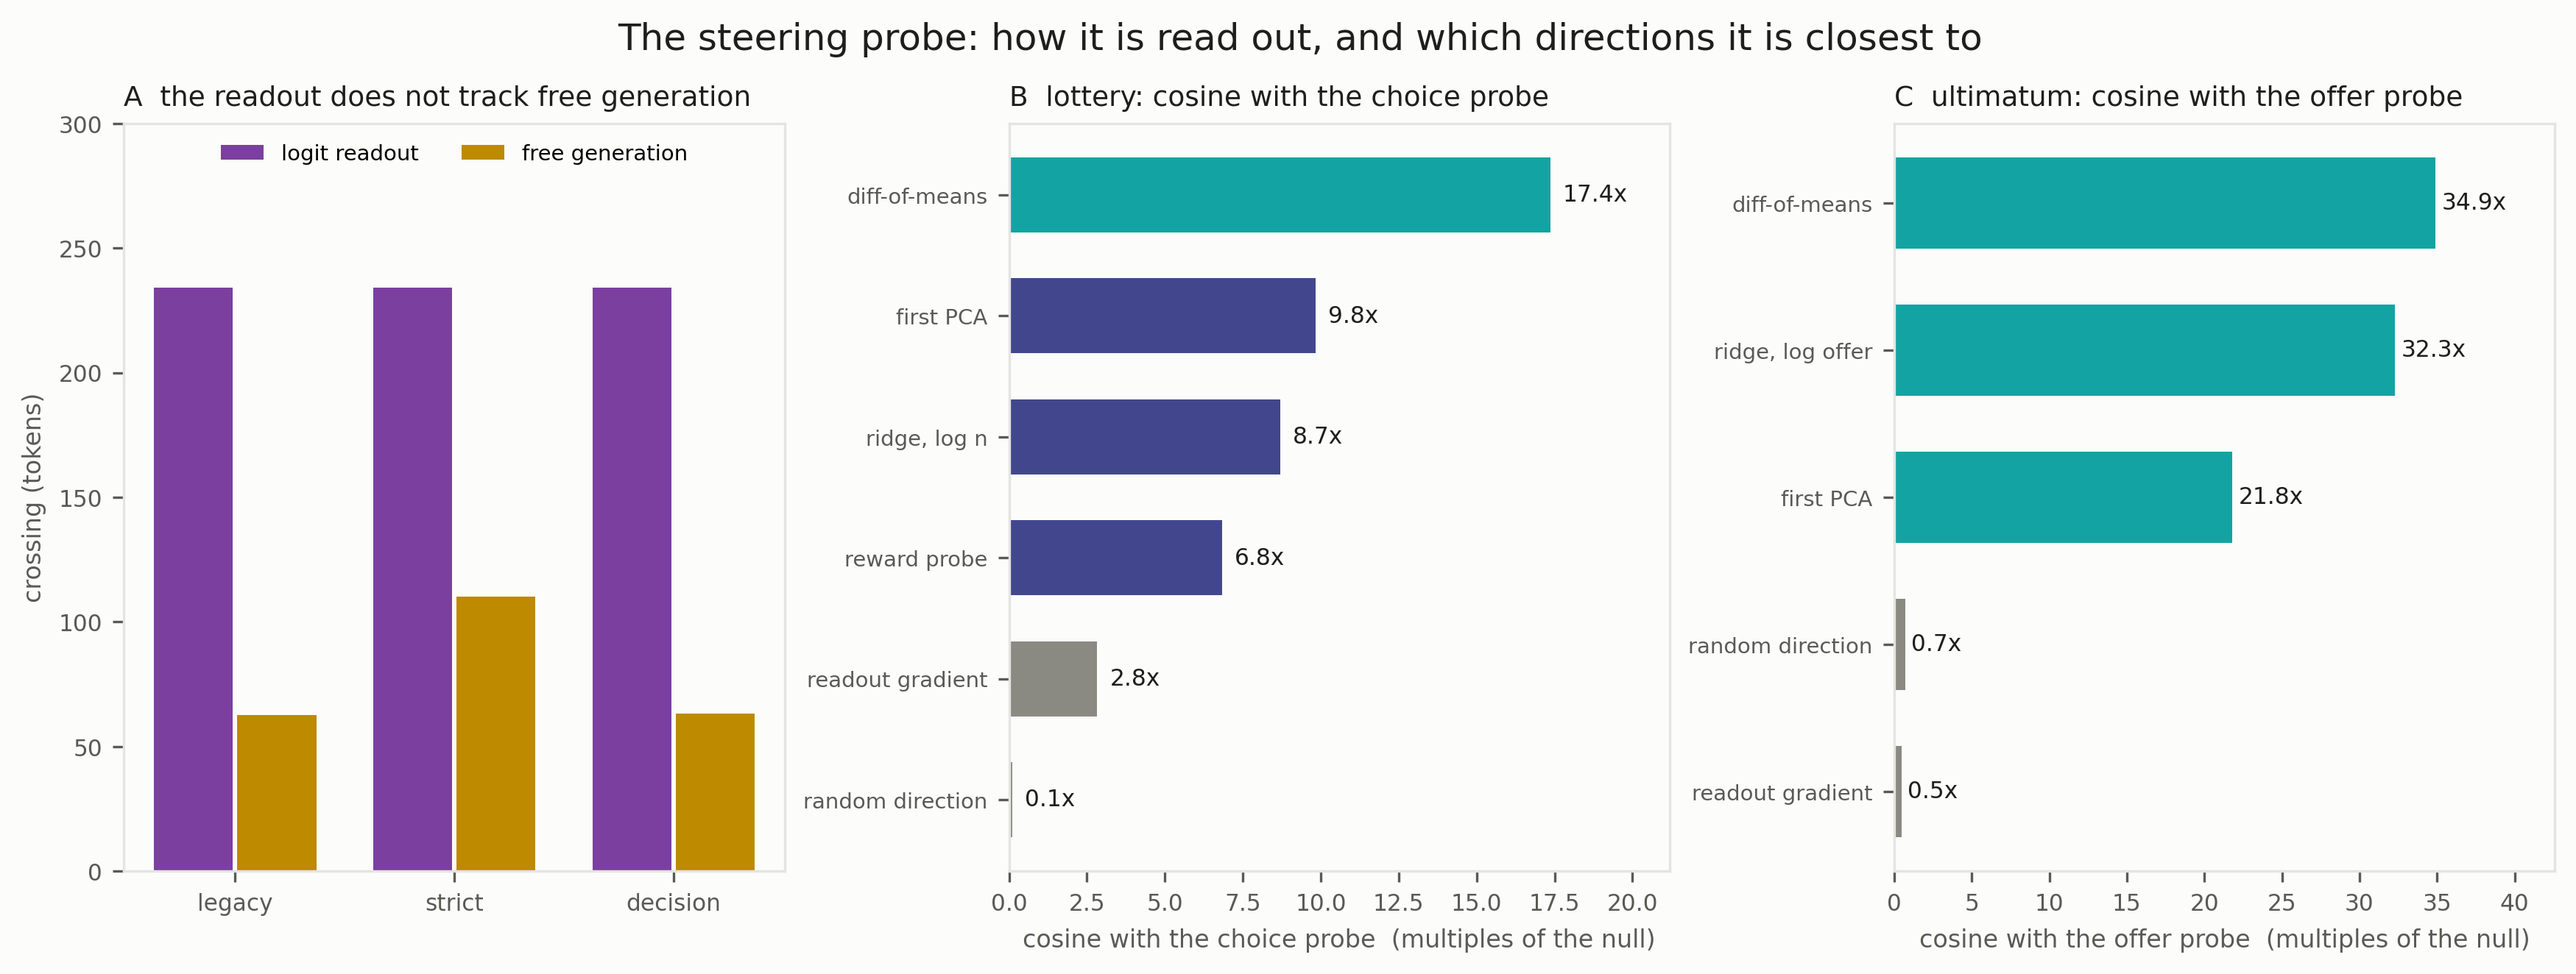
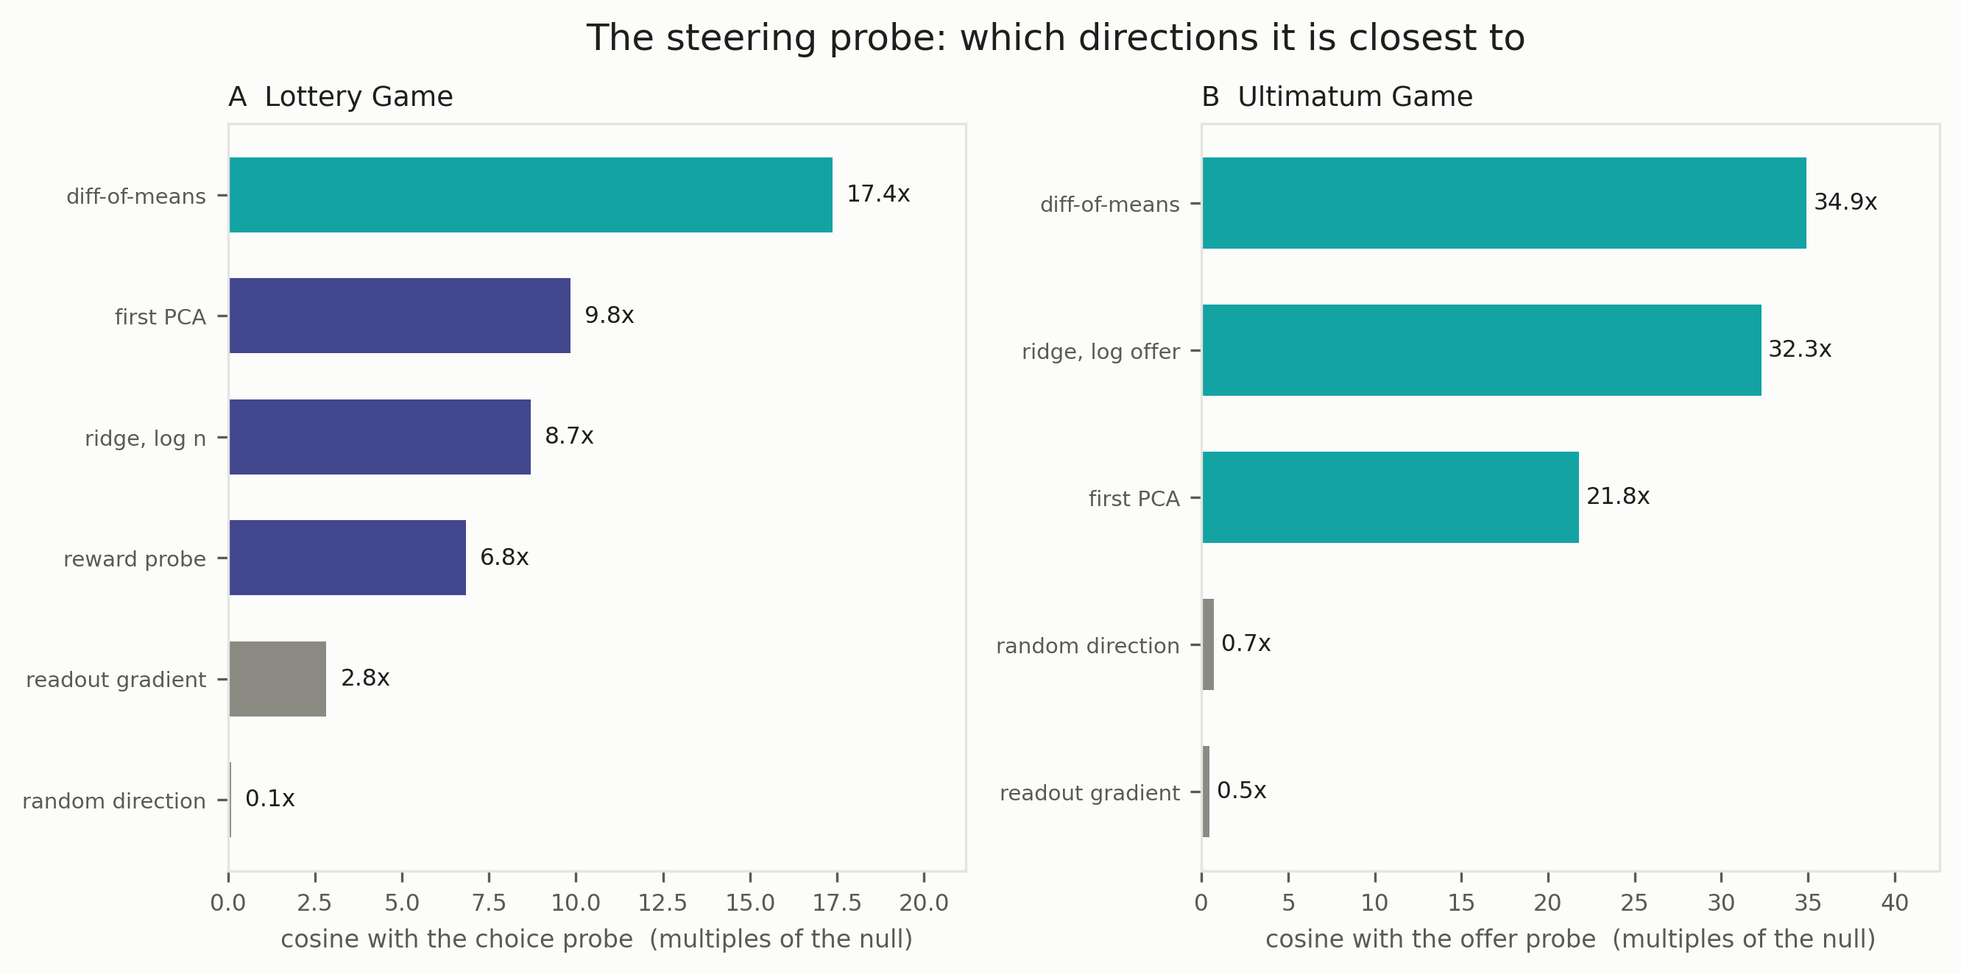
g4_summary: drop the readout panel; two games side by side with game-name titles

diff --git a/cv_bench/g4_figure.py b/cv_bench/g4_figure.py
@@ -2,8 +2,7 @@
 
 Two panels, one per measurement property:
 
-  A  the readout against free generation, the instrument check
-  B  direction geometry at layer 50, cosines as multiples of the 1/sqrt(d) null
+  A  direction geometry at layer 50, cosines as multiples of the 1/sqrt(d) null
 
 Every number is read from results/S/s1/*.csv. Nothing here is typed by hand.
 Palette and conventions from cv_bench/s1_figures.py.
@@ -25,29 +24,6 @@ DATA = Path(__file__).resolve().parents[1] / "results/S/s1"
 
 def rows(name: str) -> List[dict]:
     return list(csv.DictReader(open(DATA / name, newline="")))
-
-
-def panel_d(ax):
-    """Readout crossing against free-generation crossing."""
-    ia = [r for r in rows("instr_agreement.csv")
-          if r["enough"] == "True" and r["template"] == "True"
-          and r["crossing_readout"] and r["crossing_free"]]
-    labels, rd, fr = [], [], []
-    for r in ia:
-        labels.append(r["coding"])
-        rd.append(float(r["crossing_readout"]))
-        fr.append(float(r["crossing_free"]))
-    xs = np.arange(len(labels))
-    ax.bar(xs - 0.19, rd, width=0.36, color=PURPLE, label="logit readout")
-    ax.bar(xs + 0.19, fr, width=0.36, color=GOLD, label="free generation")
-    ax.set_xticks(xs)
-    ax.set_xticklabels(labels, fontsize=7.5)
-    ax.set_ylabel("crossing (tokens)", color=INK2, fontsize=8)
-    ax.set_title("A  the readout does not track free generation",
-                 color=INK, fontsize=9, loc="left")
-    ax.set_ylim(0, 300)
-    ax.legend(frameon=False, fontsize=7, loc="upper center", ncol=2,
-              bbox_to_anchor=(0.5, 0.99), borderaxespad=0.2)
 
 
 def panel_e(ax):
@@ -79,8 +55,7 @@ def panel_e(ax):
     ax.set_yticklabels(labels, fontsize=7)
     ax.set_xlabel("cosine with the choice probe  (multiples of the null)",
                   color=INK2, fontsize=8)
-    ax.set_title("B  lottery: cosine with the choice probe",
-                 color=INK, fontsize=9, loc="left")
+    ax.set_title("A  Lottery Game", color=INK, fontsize=9, loc="left")
 
 
 
@@ -125,8 +100,7 @@ def panel_u(ax):
     ax.set_yticklabels(labels, fontsize=7)
     ax.set_xlabel("cosine with the offer probe  (multiples of the null)",
                   color=INK2, fontsize=8)
-    ax.set_title("C  ultimatum: cosine with the offer probe",
-                 color=INK, fontsize=9, loc="left")
+    ax.set_title("B  Ultimatum Game", color=INK, fontsize=9, loc="left")
 
 
 def build():
@@ -136,19 +110,18 @@ def build():
     from matplotlib.gridspec import GridSpec
 
     # one row, two panels
-    fig = plt.figure(figsize=(14.2, 4.4))
-    gs = GridSpec(1, 3, figure=fig, wspace=0.34)
-    axes = [fig.add_subplot(gs[0, 0]), fig.add_subplot(gs[0, 1]),
-            fig.add_subplot(gs[0, 2])]
+    fig = plt.figure(figsize=(10.0, 4.4))
+    gs = GridSpec(1, 2, figure=fig, wspace=0.32)
+    axes = [fig.add_subplot(gs[0, 0]), fig.add_subplot(gs[0, 1])]
     for ax in axes:
         ax.set_facecolor(SURFACE)
         ax.grid(False)
         ax.tick_params(labelsize=7.5, colors=INK2)
         for s_ in ax.spines.values():
             s_.set_color(GRID)
-    panel_d(axes[0]); panel_e(axes[1]); panel_u(axes[2])
+    panel_e(axes[0]); panel_u(axes[1])
 
-    fig.suptitle("The steering probe: how it is read out, and which directions it is closest to",
+    fig.suptitle("The steering probe: which directions it is closest to",
                  color=INK, fontsize=12, y=0.985)
     save(fig, "g4_summary")
 

diff --git a/logs/DECISIONS.md b/logs/DECISIONS.md
@@ -1783,3 +1783,29 @@ Three cosmetic changes requested on the ladder figure, all applied and rendered.
      asked for it to come off.
 
 No data, fit or value changed. Figure regenerated.
+
+## D105 — g4_summary is two panels: the two games side by side (24 Sept)
+
+At the authors' instruction the readout-against-free-generation panel is removed, since they
+have not settled how to use it. `panel_d` is deleted from `cv_bench/g4_figure.py` and is
+recoverable at 665bc2c. The figure is now the lottery and ultimatum geometry side by side at
+10.0x4.4 inches, relabelled A and B.
+
+Titles are "A  Lottery Game" and "B  Ultimatum Game". The reference direction and the unit used
+to sit in the titles and now appear only in the x labels, which is where the authors pointed
+out they were already stated.
+
+The suptitle is corrected with them. It read "how it is read out, and which directions it is
+closest to"; the first half described the panel that has gone, so it now reads "The steering
+probe: which directions it is closest to".
+
+What leaves the record with the panel, listed because it was a finding rather than decoration:
+the logit readout puts the lottery crossing at 234.1 while free generation puts it at 62.6
+under the last-mention rule and 63.2 under the decision rule and 110.0 under the first-mention
+rule. That measurement stands in `results/S/s1/instr_agreement.csv` and in section 3.3 of
+friday_session.txt; it is only off this figure.
+
+One asymmetry the two remaining panels still carry, unchanged by this edit: panel A is
+referenced to the choice probe and panel B to a probe fitted on the offer, because the
+ultimatum arm has no choice probe on this stack. The panels are therefore not a like-for-like
+comparison between games, and nothing on the figure says so now that the notes block is gone.
